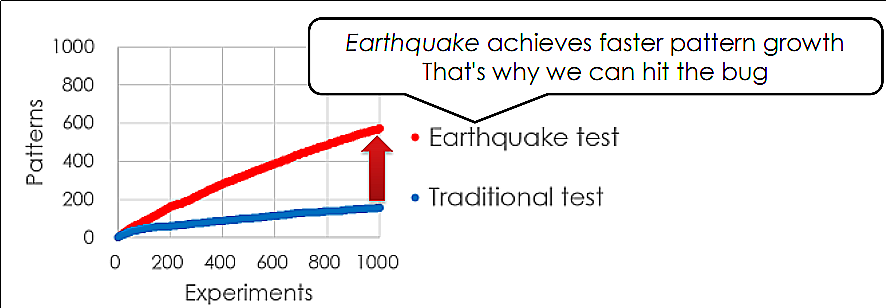
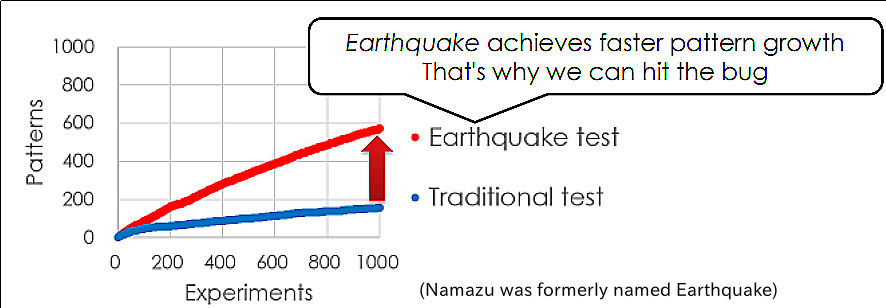
doc: fix

Changed region(s): [[0.4571, 0.9058, 0.8837, 0.9643]]

diff --git a/doc/blog/content/about.md b/doc/blog/content/about.md
@@ -6,7 +6,7 @@ title = "About Namazu"
 
 +++
 
-In short, the goal of earthquake project is providing a foundation of debugger for distributed systems.
+In short, the goal of Namazu project is providing a foundation of debugger for distributed systems.
 
 Developing and maintaining distributed systems is difficult. 
 The difficulty comes from many factors, 
@@ -21,12 +21,12 @@ They showed the existence of the bugs by building implementation level distribut
 The DMCKs have a capability of searching complex state space of protocols and injeting faults at critical timings.
 In addition, they can work with actual implementation (not formal model [\[2\]][2]) directly.
 
-earthquake is a programmable fuzz testing framework inspired by such DMCKs.
+Namazu is a programmable fuzz testing framework inspired by such DMCKs.
 Its design does not depend on programming languages and opearting systems.
 You can write your own state space search policy for your system.
 We hope it will make your life a little bit easier.
 
-![Overview](/earthquake/images/overview.png)
+![Overview](/namazu/images/overview.png)
 
 [1]: https://www.usenix.org/conference/osdi14/technical-sessions/presentation/leesatapornwongsa "Tanakorn Leesatapornwongsa, et al. SAMC: Semantic-Aware Model Checking for Fast Discovery of Deep Bugs in Cloud Systems. In Proc. of OSDI '14."
 [2]: http://research.microsoft.com/en-us/um/people/lamport/tla/formal-methods-amazon.pdf "Chris Newcombe, et al. Use of Formal Methods at Amazon Web Services. Amazon.com Technical Report, 2014."
